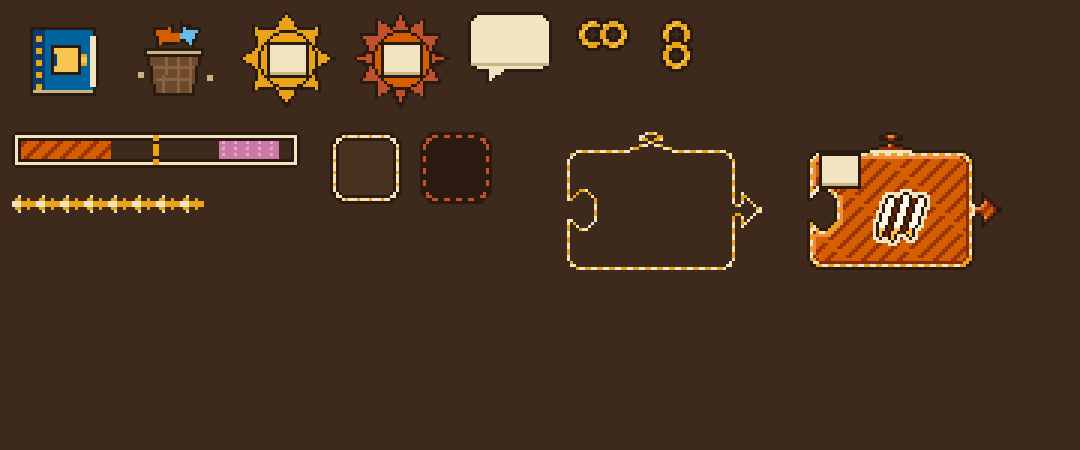
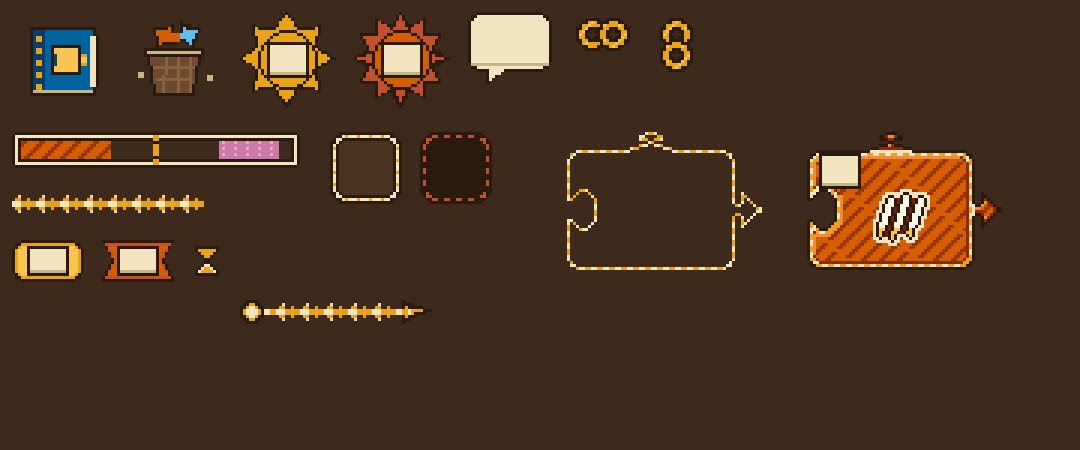
Puzzle combat: flat combo badges, glow start/end caps, expiring badge
Claude-Session: https://claude.ai/code/session_01PZZqg4onx9N7HoHfoA6Jxg

Changed region(s): [[0.0, 0.5289, 0.1528, 0.6222], [0.2139, 0.6844, 0.3972, 0.7156], [0.1833, 0.5289, 0.2139, 0.6222]]

diff --git a/aseprite-source/pfight/layout/felt/gen_extras.py b/aseprite-source/pfight/layout/felt/gen_extras.py
@@ -194,6 +194,63 @@ def chip(foe):
     return im
 
 
+def badge(big):
+    """flat combo badge, 24x14: small = rounded pill (gold), big = swallowtail ribbon (rust). number plate (6,3) 12x8, empty."""
+    im = new(24, 14)
+    d = ImageDraw.Draw(im)
+    if big:
+        d.polygon([(0, 0), (23, 0), (20, 6.5), (23, 13), (0, 13), (3, 6.5)], fill=INK + (255,))
+        d.polygon([(1, 1), (22, 1), (19, 6.5), (22, 12), (1, 12), (4, 6.5)], fill=RUST + (255,))
+        fill2 = hx('#d55e00')
+        d.polygon([(2, 2), (21, 2), (18, 6.5), (21, 11), (2, 11), (5, 6.5)], fill=fill2 + (255,))
+    else:
+        d.rounded_rectangle([0, 0, 23, 13], 4, fill=INK + (255,))
+        d.rounded_rectangle([1, 1, 22, 12], 3, fill=GOLD + (255,))
+        d.rounded_rectangle([2, 2, 21, 11], 2, fill=hx('#f8c552') + (255,))
+    rect(d, 5, 2, 18, 11, INK)
+    rect(d, 6, 3, 17, 10, CREAM)
+    rect(d, 6, 10, 17, 10, CD)
+    return im
+
+
+def expiry():
+    """10x10 expiring-piece badge: hourglass, gold sand. Shape is the cue (not colour)."""
+    rows = ['.########.', '.#gggggg#.', '..#gggg#..', '...#gg#...', '....##....',
+            '....##....', '...#cc#...', '..#cggc#..', '.#cggggc#.', '.########.']
+    pal = {'#': INK, 'g': GOLD, 'c': CREAM}
+    im = new(10, 10)
+    for y, r in enumerate(rows):
+        assert len(r) == 10
+        for x, ch in enumerate(r):
+            if ch in pal:
+                im.putpixel((x, y), pal[ch] + (255,))
+    return im
+
+
+def glow_caps(vertical):
+    """direction caps for the chain glow. NEWEST = start (bead), OLDEST = end (arrowhead). Drawn left->right / top->bottom."""
+    st = new(12, 8)
+    d = ImageDraw.Draw(st)
+    d.ellipse([0, 0, 7, 7], fill=INK + (255,))
+    d.ellipse([1, 1, 6, 6], fill=GOLD + (255,))
+    d.ellipse([2, 2, 5, 5], fill=CREAM + (255,))
+    for x in range(8, 12):
+        st.putpixel((x, 3), (CREAM if x < 10 else GOLD) + (255,))
+        st.putpixel((x, 4), (CREAM if x < 10 else GOLD) + (255,))
+    en = new(12, 8)
+    d = ImageDraw.Draw(en)
+    d.polygon([(2, 0), (2, 7), (11, 3.5)], fill=INK + (255,))
+    d.polygon([(3, 2), (3, 5), (8, 3.5)], fill=GOLD + (255,))
+    for x in range(0, 4):
+        en.putpixel((x, 3), (GOLD if x > 1 else CREAM) + (255,))
+        en.putpixel((x, 4), (GOLD if x > 1 else CREAM) + (255,))
+    en.putpixel((4, 3), CREAM + (255,))
+    en.putpixel((4, 4), CREAM + (255,))
+    if vertical:
+        st, en = st.rotate(-90, expand=True), en.rotate(-90, expand=True)
+    return st, en
+
+
 def ghost(piece_alpha_img):
     """lit-spot ghost: piece-shaped outline of a candidate piece, 1 px, dashed gold/cream; interior left empty.
     rule (piece-local px): outline = opaque px with a 4-neighbour outside; colour = GOLD if (x+y)%4<2 else CREAM."""
@@ -234,6 +291,13 @@ def main(out):
     save('intent-bubble.png', bubble(), icon_at=[4, 1], icon_size=20, tail='bottom-left')
     save('combo-stamp-small.png', stamp(8, hx('#e8a317'), GOLD), plate=[10, 11, 12, 10], note='combo 2-3')
     save('combo-stamp-big.png', stamp(12, hx('#d55e00'), RUST), plate=[10, 11, 12, 10], note='combo 4+')
+    save('combo-badge-small.png', badge(False), plate=[6, 3, 12, 8], note='flat pill, combo 2-3; replaces the star stamp')
+    save('combo-badge-big.png', badge(True), plate=[6, 3, 12, 8], note='swallowtail ribbon, combo 4+')
+    save('expiring-badge.png', expiry(), note='10x10 hourglass, put at a piece corner')
+    for v in (False, True):
+        a, b = glow_caps(v)
+        save('chain-glow-start-%s.png' % ('v' if v else 'h'), a, note='NEWEST end (bead). h: glow runs left->right, v: top->bottom; flip in code for the other direction')
+        save('chain-glow-end-%s.png' % ('v' if v else 'h'), b, note='OLDEST end (arrowhead, points the way the glow runs)')
     save('chip-me.png', chip(False), slice=5, note='9-slice, YOU, solid border')
     save('chip-foe.png', chip(True), slice=5, note='9-slice, FOE, dashed border')
     json.dump(files, open(os.path.join(out, 'extras.json'), 'w'), indent=1)
@@ -259,6 +323,12 @@ def main(out):
     sheet.alpha_composite(g1, (4, 64))
     sheet.alpha_composite(Image.open(os.path.join(out, 'chip-me.png')), (110, 44))
     sheet.alpha_composite(Image.open(os.path.join(out, 'chip-foe.png')), (140, 44))
+    sheet.alpha_composite(Image.open(os.path.join(out, 'combo-badge-small.png')), (4, 80))
+    sheet.alpha_composite(Image.open(os.path.join(out, 'combo-badge-big.png')), (34, 80))
+    sheet.alpha_composite(Image.open(os.path.join(out, 'expiring-badge.png')), (64, 82))
+    sheet.alpha_composite(Image.open(os.path.join(out, 'chain-glow-start-h.png')), (80, 100))
+    sheet.alpha_composite(Image.open(os.path.join(out, 'chain-glow-h.png')).crop((0, 0, 40, 8)), (92, 100))
+    sheet.alpha_composite(Image.open(os.path.join(out, 'chain-glow-end-h.png')), (132, 100))
     sheet.alpha_composite(gim, (180, 44))
     sheet.alpha_composite(cand, (260, 44))
     sheet.resize((1080, 450), Image.NEAREST).save(os.path.join(out, 'extras-sheet.png'))

diff --git a/game/assets/img/pfight/parts/README.md b/game/assets/img/pfight/parts/README.md
@@ -62,3 +62,10 @@ Hand ribbon in piece coords: at (42,58) size 58x9. Cache per (type, size, owner,
 - `combo-stamp-small.png` (combo 2-3), `combo-stamp-big.png` (4+), 32x32, number plate (10,11) 12x10 left empty.
 - `chip-me.png` / `chip-foe.png` 24x24, 9-slice margin 5 (solid vs dashed border).
 - `extras-preview.png` is a 3x preview only.
+
+## Update 2
+- `combo-badge-small.png` (pill, 2-3) / `combo-badge-big.png` (swallowtail, 4+): flat 24x14, number plate (6,3) 12x8 empty. Replace the star stamps (kept, deprecated).
+- `chain-glow-start-h|v.png` 12x8 / 8x12 = NEWEST end (bead); `chain-glow-end-h|v.png` = OLDEST end (arrowhead). Body `chain-glow-h|v.png` keeps tiling, animation runs start to end.
+  Draw left to right (h) or top to bottom (v); mirror in code for the other direction.
+- `expiring-badge.png` 10x10 hourglass (shape is the cue), put it on a piece corner.
+- Strip plate at 1.5x: non-integer scale breaks hard pixels (uneven 1/2 px). Use 1x or 2x, or draw the number after scaling.
